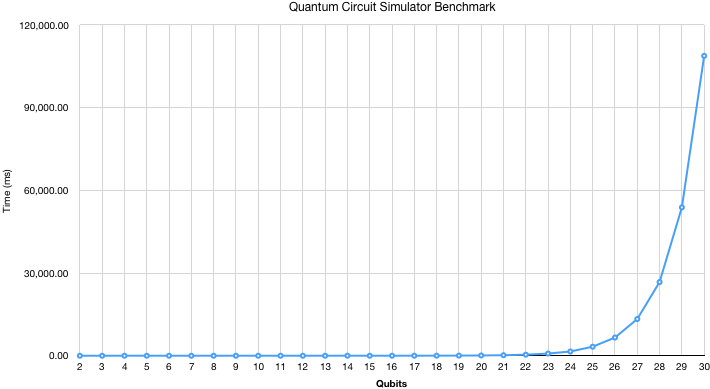
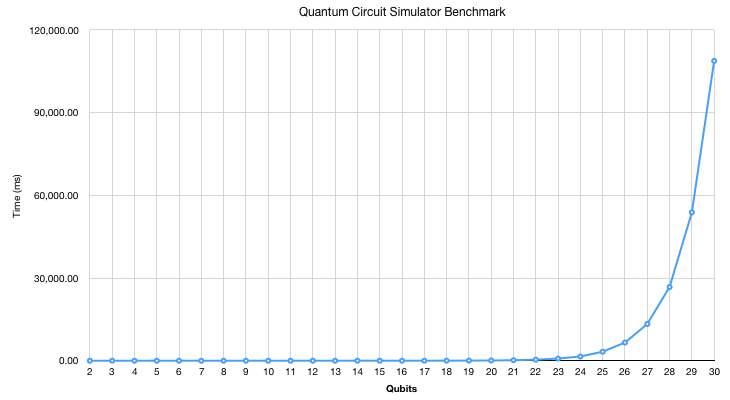
Updated README.md and removed transparency from benchmark image

Changed region(s): [[0.031, 0.0, 1.0, 1.0], [0.031, 0.2468, 0.4648, 0.3085], [0.0, 0.4319, 0.1239, 0.5553]]

diff --git a/README.md b/README.md
@@ -1,7 +1,7 @@
 Quantum Circuit Simulator
 =========================
 
-Quantum circuit simulator implemented in javascript. Optimized memory usage but CPU intensive. Smoothly runs 20-qubit simulations on laptop. Can run in browser or at server (node.js). No UI: you can use it in your program to run quantum simulations. Circuit can be imported from and exported to [OpenQASM](https://github.com/Qiskit/openqasm). Circuit drawing can be exported to [svg](https://www.w3.org/Graphics/SVG/) vector image.
+Quantum circuit simulator implemented in javascript. Optimized memory usage but CPU intensive. Smoothly runs 20-qubit simulations on laptop. Can run in browser or at server (node.js). No UI: you can use it in your program to run quantum simulations. Circuit can be imported from and exported to [OpenQASM](https://github.com/Qiskit/openqasm). Circuit drawing can be exported to [SVG](https://www.w3.org/Graphics/SVG/) vector image.
 
 
 About algorithm
@@ -47,8 +47,6 @@ Simply include [quantum-circuit.min.js](dist/) into your html page (available vi
 
 See [live example](https://quantum-circuit.com/example.html)
 
-Example page source code is [here](./example/browser/example.html)
-
 
 Using at server with node.js
 ----------------------------
@@ -67,8 +65,6 @@ var QuantumCircuit = require("quantum-circuit");
 // Your code here
 
 ```
-
-See node.js [examples](./example/nodejs/)
 
 
 Getting started
